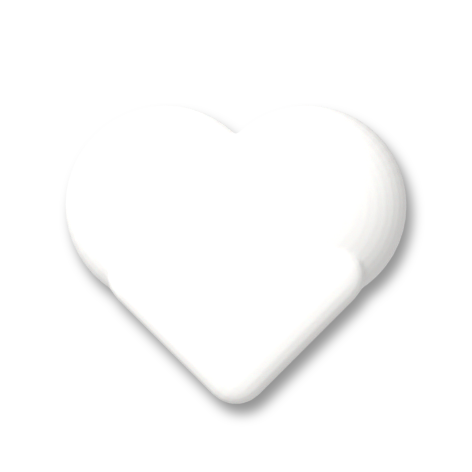
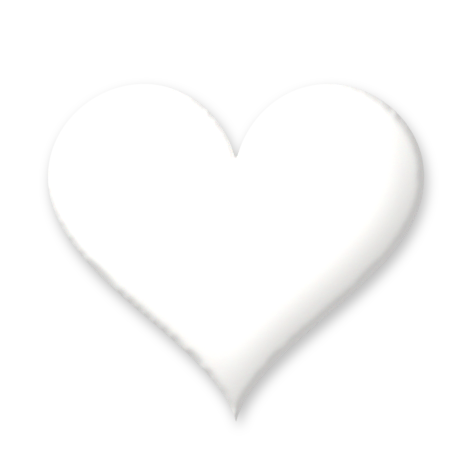
UI: rebuild the clay heart with an exact outline and a lighter shadow
The heart is now the exact parametric silhouette, inflated from a blurred
fill so the surface is smooth with no seams or centre crease. Its drop
shadow is lighter and tighter so it no longer reads as a dark blob.

diff --git a/ArtSource/blender/build_ui_kit.py b/ArtSource/blender/build_ui_kit.py
@@ -182,7 +182,7 @@ def film_glyph():
     return fuse("filmplay", parts, voxel=0.008, smooth_repeat=2)
 
 
-def render_ui(ob, name, half_w, half_h, border_px=None):
+def render_ui(ob, name, half_w, half_h, border_px=None, shadow=0.42, shadow_offset=(6, -10)):
     scene = bpy.context.scene
     ob.data.materials.clear()
     ob.data.materials.append(white_clay())
@@ -196,7 +196,7 @@ def render_ui(ob, name, half_w, half_h, border_px=None):
     scene.camera.location = (0, 0, 10)
     scene.render.filepath = os.path.join(UI_OUT, name + ".png")
     bpy.ops.render.render(write_still=True)
-    add_drop_shadow(scene.render.filepath)
+    add_drop_shadow(scene.render.filepath, offset=shadow_offset, strength=shadow)
     ob.hide_render = True
     META[name] = dict(file=name + ".png", ppu=PPU, border=border_px or 0)
     print("rendered", name)
@@ -244,20 +244,68 @@ def pause_glyph():
 
 
 def heart_shape():
-    """Puffy clay cushion: two round lobes + a rotated rounded square (the classic heart construction),
-    fused into one blob and squashed in Z so it reads as soft clay, not a flat cut-out."""
-    # square side 1.0 rotated 45 deg, centre c; lobes (r = 0.5) sit on its two upper edges' midpoints
-    c = -0.2
-    k = 0.5 / math.sqrt(2)
-    lobes = [ellipsoid("lobeL", (0.5, 0.5, 0.5), (-k, c + k, 0)), ellipsoid("lobeR", (0.5, 0.5, 0.5), (k, c + k, 0))]
-    point = rounded_box("point", (1.0, 1.0, 0.94), (0, c, 0), 0.16)
-    point.rotation_euler = (0, 0, math.radians(45))
-    ob = fuse("heart", lobes + [point], voxel=0.01, smooth_repeat=8)
-    ob.scale = (1.0, 1.0, 0.55)
-    bpy.ops.object.select_all(action="DESELECT")
-    ob.select_set(True)
-    bpy.context.view_layer.objects.active = ob
-    bpy.ops.object.transform_apply(location=False, rotation=False, scale=True)
+    """Exact heart silhouette (parametric outline), puffed into a smooth clay cushion: the top surface is
+    raised by its distance from the outline, so edges roll over softly and the middle domes up."""
+    import numpy as np
+    outline = []
+    for i in range(160):
+        t = 2 * math.pi * i / 160
+        x = 16 * math.sin(t) ** 3
+        y = 13 * math.cos(t) - 5 * math.cos(2 * t) - 2 * math.cos(3 * t) - math.cos(4 * t)
+        outline.append((x / 17.0, y / 17.0 + 0.06))
+    base = 0.16
+    ob = extrude_outline("heart", outline, base, bevel=0.07)   # thin exact-shape slab, voxel-fused
+    # Inflate like a balloon: height = blurred filled silhouette (smooth everywhere, so no ridges or creases).
+    n, lo, hi = 400, -1.2, 1.2
+    xs = np.linspace(lo, hi, n)
+    gx, gy = np.meshgrid(xs, xs)
+    poly = np.array(outline)
+    inside = np.zeros(gx.shape, dtype=bool)
+    j2 = len(poly) - 1
+    for i2 in range(len(poly)):                       # even-odd point-in-polygon on the grid
+        xi, yi = poly[i2]
+        xj, yj = poly[j2]
+        cond = ((yi > gy) != (yj > gy)) & (gx < (xj - xi) * (gy - yi) / ((yj - yi) + 1e-12) + xi)
+        inside ^= cond
+        j2 = i2
+    h = inside.astype(np.float64)
+
+    def box(arr, r, axis):
+        k = 2 * r + 1
+        pad = [(0, 0), (0, 0)]
+        pad[axis] = (r, r)
+        pa = np.pad(arr, pad)
+        c = np.cumsum(pa, axis=axis)
+        if axis == 0:
+            c = np.vstack([np.zeros((1, c.shape[1])), c])
+            return (c[k:, :] - c[:-k, :]) / k
+        c = np.hstack([np.zeros((c.shape[0], 1)), c])
+        return (c[:, k:] - c[:, :-k]) / k
+
+    for _ in range(3):
+        h = box(box(h, 22, 0), 22, 1)
+    h = np.where(inside, h, 0.0)
+    h = h / h.max()
+    me = ob.data
+    co = np.zeros(len(me.vertices) * 3)
+    me.vertices.foreach_get("co", co)
+    co = co.reshape(-1, 3)
+    u = np.clip((co[:, 0] - lo) / (hi - lo) * (n - 1), 0, n - 1)
+    v = np.clip((co[:, 1] - lo) / (hi - lo) * (n - 1), 0, n - 1)
+    u0, v0 = np.floor(u).astype(int), np.floor(v).astype(int)
+    u1, v1 = np.minimum(u0 + 1, n - 1), np.minimum(v0 + 1, n - 1)
+    fu, fv = u - u0, v - v0
+    hv = (h[v0, u0] * (1 - fu) * (1 - fv) + h[v0, u1] * fu * (1 - fv) + h[v1, u0] * (1 - fu) * fv + h[v1, u1] * fu * fv)
+    top = co[:, 2] > 0
+    co[top, 2] += 0.42 * np.sqrt(hv[top])               # sqrt: rounder shoulders, soft crown
+    me.vertices.foreach_set("co", co.ravel())
+    me.update()
+    sm = ob.modifiers.new("Smooth", "CORRECTIVE_SMOOTH")
+    sm.factor = 0.5
+    sm.iterations = 24
+    sm.use_only_smooth = True
+    bpy.ops.object.modifier_apply(modifier=sm.name)
+    bpy.ops.object.shade_smooth()
     return ob
 
 
@@ -309,7 +357,7 @@ def part_b():
     # cream clay card for menus (pause, confirm, out of lives): sliced on all four sides
     card = rounded_rect("card", 4.0, 4.0, 0.72, 0.42, 0.2)
     render_ui(card, "ui_card", 2.0 + m, 2.0 + m, border_px=int((0.72 + m) * PPU))
-    render_ui(heart_shape(), "ui_heart", 1.0 + m, 1.0 + m)
+    render_ui(heart_shape(), "ui_heart", 1.0 + m, 1.0 + m, shadow=0.26, shadow_offset=(3, -6))
     render_ui(cog_shape(), "ui_cog", 1.15 + m, 1.15 + m)
     render_ui(sound_glyph(), "ui_sound", 0.8 + m, 0.6 + m)
     render_ui(haptics_glyph(), "ui_haptics", 0.85 + m, 0.6 + m)
